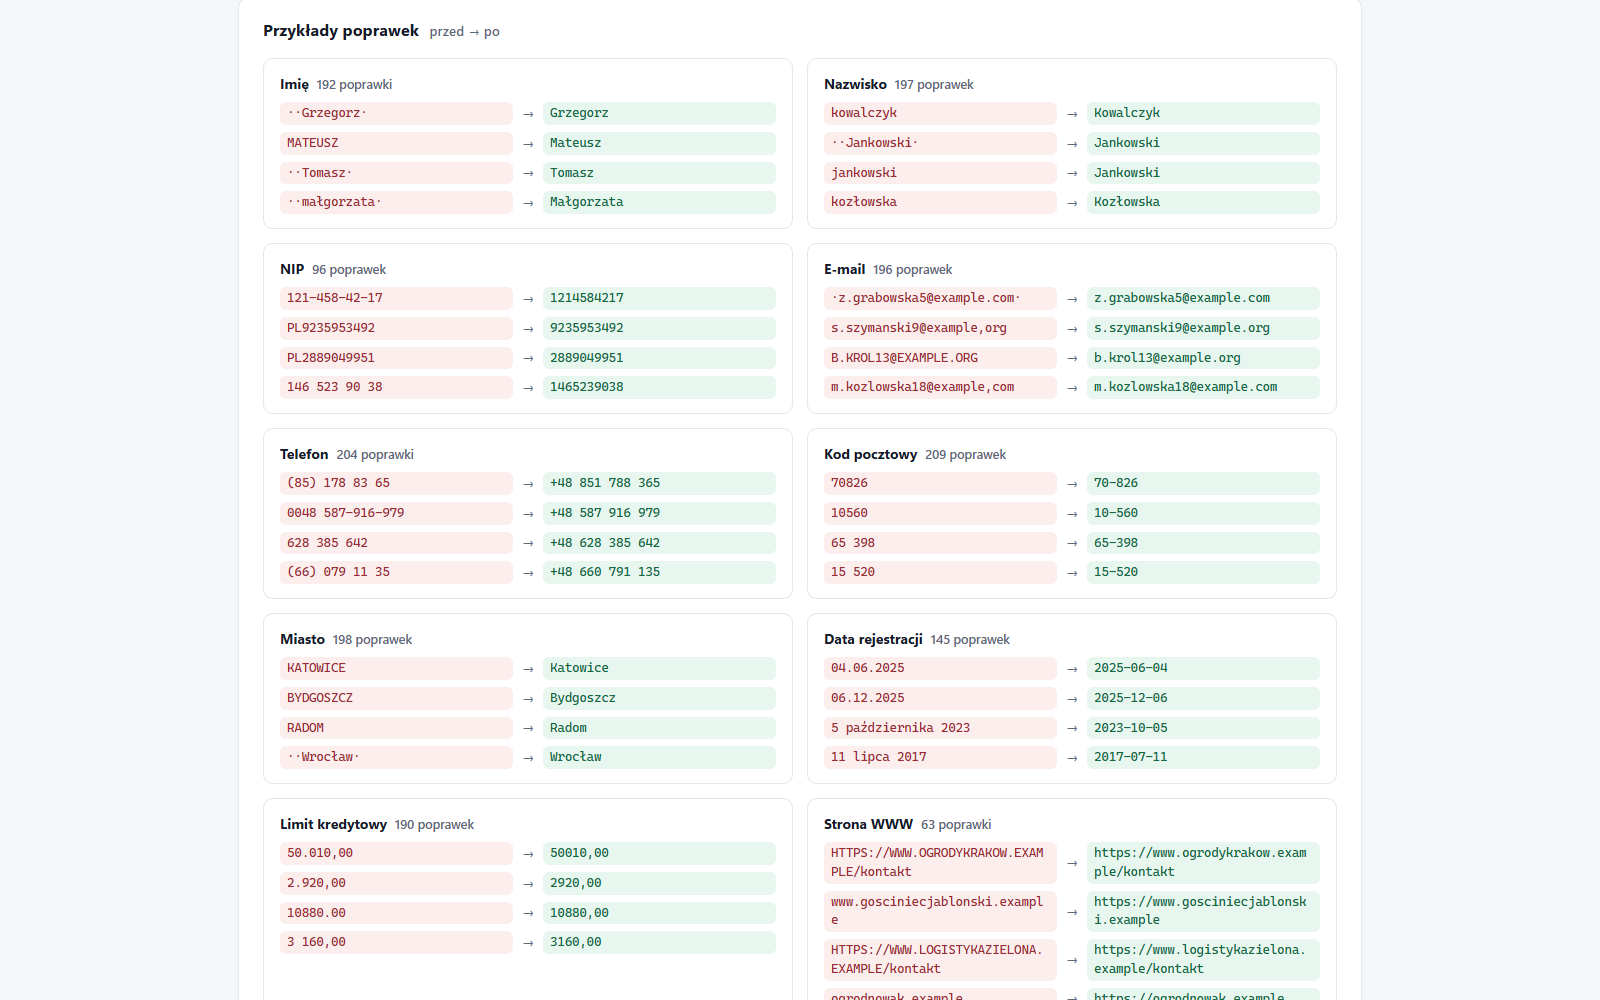
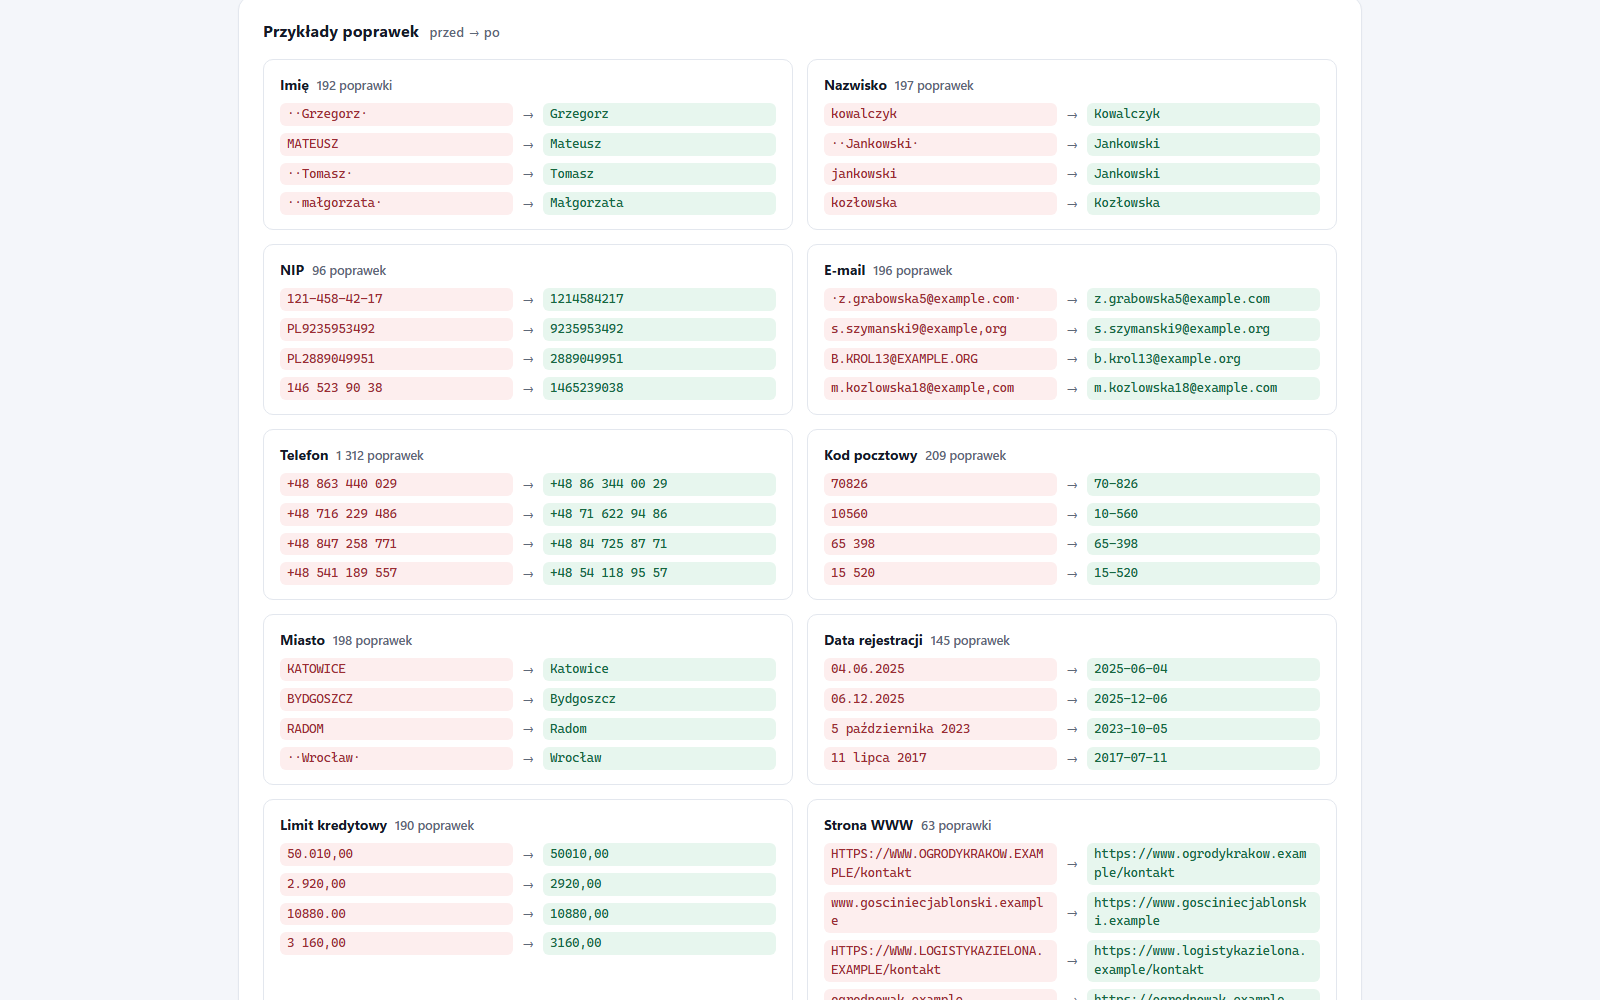
README i zrzuty ekranu zgodne z poprawkami

diff --git a/README.md b/README.md
@@ -9,6 +9,10 @@ rozpoznaje typy kolumn, poprawia to, co da się poprawić automatycznie, i zapis
 - **plik z odrzuconymi wierszami** – z oryginalnymi wartościami, błędne komórki zaznaczone na czerwono, z kolumną „Powody odrzucenia”,
 - **raport HTML** – jeden samodzielny plik z podsumowaniem, wykresem rodzajów błędów, statystykami kolumn, przykładami poprawek i listą problemów (gotowy do wydruku do PDF).
 
+W plikach CSV tekst zaczynający się od `=`, `+`, `-` lub `@` dostaje na początku apostrof, żeby arkusz nie uruchomił go
+jako formuły (liczby, np. „-12,50”, zostają bez zmian; XLSX zapisuje takie wartości zawsze jako tekst). Wyniki powstają
+najpierw w plikach tymczasowych: jeśli poprzedni wynik jest otwarty w Excelu, program to zgłasza i nie zmienia starych plików.
+
 Program działa jako okno (Windows) i z wiersza poleceń. Oba interfejsy korzystają z tej samej biblioteki.
 
 ![Okno programu po sprawdzeniu pliku klienci.xlsx](docs/zrzuty/okno-jasny.png)
@@ -25,6 +29,9 @@ Program działa jako okno (Windows) i z wiersza poleceń. Oba interfejsy korzyst
 - XLSX (także XLSM, XLS, ODS) i CSV/TXT/TSV.
 - CSV: automatyczne rozpoznanie kodowania (UTF-8 z BOM i bez, Windows-1250, ISO-8859-2) i separatora (`;` `,` tabulator `|`) – także gdy w danych są przecinki dziesiętne.
 - Nagłówek nie musi być w pierwszym wierszu, puste wiersze są pomijane, powtórzone nazwy kolumn dostają numer.
+- Ostrzeżenia w raporcie i w podsumowaniu: plik z mieszanym kodowaniem (znaki „�”), skoroszyt z kilkoma arkuszami
+  (sprawdzany jest pierwszy, inny: `--arkusz`), wiersze z mniejszą liczbą pól niż nagłówek (brakujące pola są puste;
+  wiersze z nadmiarowymi polami są odrzucane).
 
 **Typy kolumn** – wykrywane z nazwy nagłówka i zawartości, do zmiany w oknie lub w pliku reguł:
 
@@ -32,23 +39,29 @@ Program działa jako okno (Windows) i z wiersza poleceń. Oba interfejsy korzyst
 | --- | --- |
 | `tekst` | zbędne spacje; opcjonalnie wielkość liter („NOWE MIASTO NAD PILICĄ” → „Nowe Miasto nad Pilicą”) |
 | `liczba_calkowita` | „1 200”, „1.200”, „12,0” → 1200 / 12 |
-| `kwota` | „1 234,56 zł”, „1.234,56”, „1,234.56” → 1234,56; zaokrąglenie do N miejsc |
-| `data` | 01.02.2026, 1/2/2026, 2026-02-01, „1 lutego 2026” → 2026-02-01; wykrywa 31.02 i zapis MM/DD |
+| `kwota` | „1 234,56 zł”, „1.234,56”, „1,234.56” → 1234,56; zaokrąglenie do N miejsc (samo dopisanie zer, „5” → „5,00”, nie liczy się jako poprawka) |
+| `data` | 01.02.2026, 1/2/2026, 2026-02-01, „1 lutego 2026” → 2026-02-01; wykrywa 31.02, zapis MM/DD i godziny typu 25:99; z daty z godziną zostaje sama data, a raport ostrzega, w ilu komórkach |
 | `email` | małe litery, usuwa spacje i „mailto:”, poprawia przecinek przed domeną; wykrywa brak @, polskie znaki, „..” |
-| `telefon` | polskie numery z +48 / 0048 lub bez → „+48 600 123 456”; za mało cyfr, numer zagraniczny |
+| `telefon` | polskie numery z +48 / 0048 lub bez → komórkowe „+48 600 123 456”, stacjonarne z numerem kierunkowym „+48 22 123 45 67”; za mało cyfr, numer zagraniczny |
 | `kod_pocztowy` | „00950”, „00 950”, liczba 950 z Excela → „00-950” |
-| `nip` | usuwa „PL”, kreski i spacje, sprawdza **cyfrę kontrolną** |
+| `nip` | usuwa „PL”, kreski i spacje, sprawdza **cyfrę kontrolną**, odrzuca same takie same cyfry (0000000000) |
 | `url` | dodaje brakujące https://, małe litery w domenie |
 | `tak_nie` | tak/nie, T/N, 1/0, prawda/fałsz, x → „tak”/„nie” |
+
+**Identyfikatory zostają tekstem:** kolumny typu ID, Nr, Numer oraz wartości z zerem na początku („000123”, PESEL)
+lub dłuższe niż 15 cyfr (numery kont) nie są zamieniane na liczby, więc zera i wszystkie cyfry zostają
+(wyjątek: nagłówek wskazujący liczbę, np. „Kwota” – tam taka wartość jest błędem).
+Liczby dłuższe niż 15 cyfr (ustawione ręcznie jako liczba) trafiają do XLSX jako tekst, bo Excel zaokrągliłby je.
 
 **Reguły dla kolumny:** wymagane, unikalne, min/max (liczby, daty, długość tekstu), lista dozwolonych wartości
 (dopasowanie bez względu na wielkość liter, zapis ujednolicony do wersji z listy), wielkość liter, liczba miejsc po przecinku.
 
-**Duplikaty:** identyczne wiersze (po oczyszczeniu) są usuwane – zostaje pierwszy. **Podobne rekordy** według wybranej kolumny
-(np. „Zielony Kłos Sp. z o.o.” i „ZIELONY KŁOS SP Z OO”) są pokazywane w raporcie do sprawdzenia.
+**Duplikaty:** identyczne wiersze (po oczyszczeniu) są usuwane – zostaje pierwszy. **Podobne zapisy** według wybranej kolumny –
+wartości równe po pominięciu wielkości liter, polskich znaków, spacji, interpunkcji i formy prawnej (np. „Zielony Kłos Sp. z o.o.”
+i „ZIELONY KŁOS SP Z OO”) – są pokazywane w raporcie do sprawdzenia. To nie jest wyszukiwanie literówek.
 
 **Reguły w pliku JSON** – raz ustawione sprawdzenie można powtarzać na kolejnych plikach. Błędy w pliku reguł są
-opisane po polsku, wszystkie naraz, z podpowiedzią („Nieznane pole „wymagny” – czy chodziło o „wymagane”?”).
+opisane po polsku, wszystkie naraz, z podpowiedzią („Nieznane pole „wymagny” w kolumnie „NIP”. Czy chodziło o „wymagane”?”).
 
 ## Uruchomienie
 
@@ -72,14 +85,16 @@ py -3.14 -m venv .venv
 .venv\Scripts\walidator przyklady\klienci.xlsx       # wiersz poleceń
 ```
 
-Sam rdzeń z wierszem poleceń: `pip install -e .`; z oknem: `pip install -e ".[gui]"`.
+Sam rdzeń z wierszem poleceń: `pip install -e .`; z oknem: `pip install -e ".[gui]"` (bez tego `walidator-gui`
+wyświetla komunikat z tym poleceniem).
 
 ## Okno programu
 
 1. **Plik z danymi** – „Wybierz plik…” albo przeciągnij plik do okna.
 2. **Kolumny i reguły** – wykryty typ każdej kolumny (lista do zmiany), „Wymagane”, „Unikalne”, przykład wartości
    i informacja, skąd wziął się typ (nagłówek, zawartość, plik reguł). „Wczytaj reguły…” / „Zapisz reguły…”.
-3. **Wynik** – folder, format, kolumna do szukania podobnych rekordów, usuwanie duplikatów, raport HTML.
+3. **Wynik** – folder (domyślnie `wynik` obok każdego otwartego pliku; folder wybrany ręcznie zostaje), format,
+   kolumna do szukania podobnych zapisów, usuwanie duplikatów, raport HTML.
 4. **Sprawdź i wyczyść** – praca w tle z paskiem postępu (okno nie zamarza, Esc przerywa), potem podsumowanie
    i przyciski „Otwórz raport”, „Otwórz wynik”, „Pokaż folder”.
 
@@ -173,13 +188,15 @@ jest wynik w CSV (`--format csv`).
 ## Testy i jakość kodu
 
 ```powershell
-.venv\Scripts\python -m pytest --cov          # 249 testów, pokrycie rdzenia 97 %
+.venv\Scripts\python -m pytest --cov          # 320 testów, pokrycie rdzenia 97 %
 .venv\Scripts\ruff check . ; .venv\Scripts\ruff format --check .
 ```
 
 Testy obejmują walidatory (w tym sumę kontrolną NIP), parsowanie telefonów, kodów, dat i kwot, wykrywanie
 kodowania i separatora, reguły JSON i ich komunikaty, duplikaty i podobne rekordy, zapis CSV/XLSX, raport HTML
-(m.in. czy dane są poprawnie zabezpieczone przed wstrzyknięciem HTML), kody wyjścia CLI oraz pełne przejście na plikach przykładowych.
+(m.in. czy dane są poprawnie zabezpieczone przed wstrzyknięciem HTML), ochronę CSV przed formułami, zachowanie zer wiodących
+i długich numerów, zablokowane pliki wyniku, stan okna po wczytaniu pliku, kody wyjścia CLI oraz pełne przejście
+na plikach przykładowych.
 
 ## Budowanie .exe
 
@@ -224,16 +241,23 @@ Okno nie zawiera logiki sprawdzania – zbiera ustawienia, uruchamia `engine.run
 | [XlsxWriter](https://github.com/jmcnamara/XlsxWriter) | zapis XLSX | BSD-2-Clause |
 | [CustomTkinter](https://github.com/TomSchimansky/CustomTkinter) | wygląd okna | MIT |
 | [tkinterdnd2](https://github.com/Eliav2/tkinterdnd2) | przeciąganie plików do okna | MIT |
+| [darkdetect](https://github.com/albertosottile/darkdetect) | motyw systemu (zależność CustomTkinter) | BSD-3-Clause |
+| [packaging](https://github.com/pypa/packaging) | zależność CustomTkinter | Apache-2.0 / BSD-2-Clause |
 | [pytest](https://pytest.org), pytest-cov | testy | MIT |
 | [Ruff](https://github.com/astral-sh/ruff) | formatowanie i lint | MIT |
 | [PyInstaller](https://pyinstaller.org) | budowanie .exe (tylko narzędzie) | GPL-2.0 z wyjątkiem dla bootloadera |
 | [Pillow](https://python-pillow.org) | rysowanie ikony (tylko narzędzie) | MIT-CMU |
 
 Pozostałe elementy (raport, wykresy, walidatory) korzystają wyłącznie z biblioteki standardowej Pythona.
+Folder z plikami `.exe` zawiera też interpreter Pythona (licencja PSF) oraz Tcl/Tk i tkdnd – każdy na własnej licencji,
+której tekst jest w dystrybucji danego projektu.
 
 ## Ograniczenia
 
 - Zapis XLSX jest kilka razy wolniejszy niż CSV (ok. 5 tys. wierszy/s) – dla plików powyżej ~100 tys. wierszy lepiej wybrać CSV.
+  Arkusz XLSX mieści 1 048 576 wierszy: przy większym wyniku program przerywa z komunikatem, by wybrać CSV.
+  Tekst dłuższy niż 32 767 znaków jest w XLSX skracany (z ostrzeżeniem); CSV zachowuje go w całości.
+- Sprawdzany jest jeden arkusz skoroszytu (domyślnie pierwszy); w oknie nie ma wyboru arkusza, w wierszu poleceń służy do tego `--arkusz`.
 - Daty w formacie z ukośnikami są czytane jako dzień/miesiąc (polski zapis); daty amerykańskie są wykrywane tylko, gdy „miesiąc” jest większy niż 12.
 - Telefony: obsługiwane są numery polskie; numery zagraniczne są odrzucane z odpowiednim powodem.
 - Liczba wierszy pokazywana przed sprawdzeniem jest szacunkowa (liczba linii pliku); dokładna jest w podsumowaniu.
